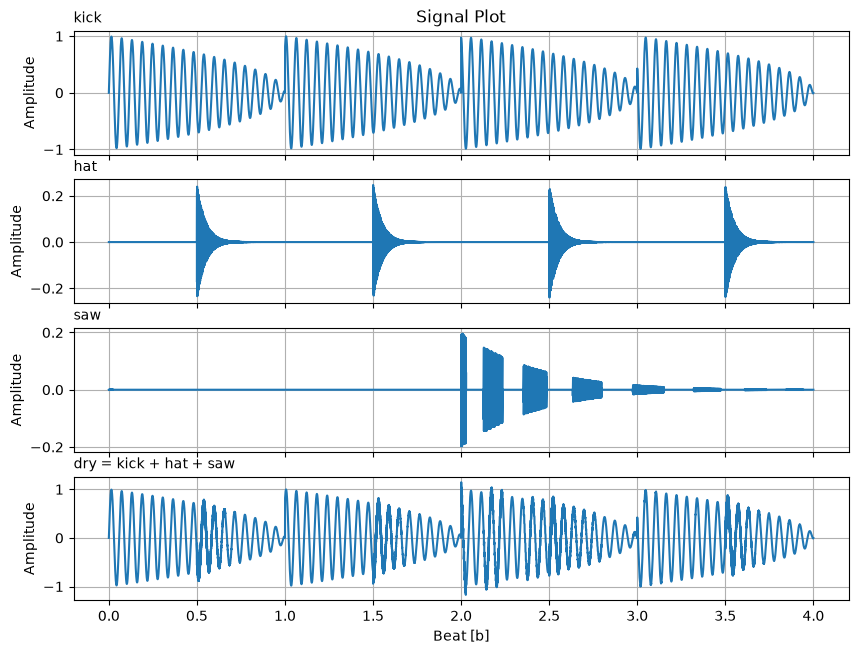
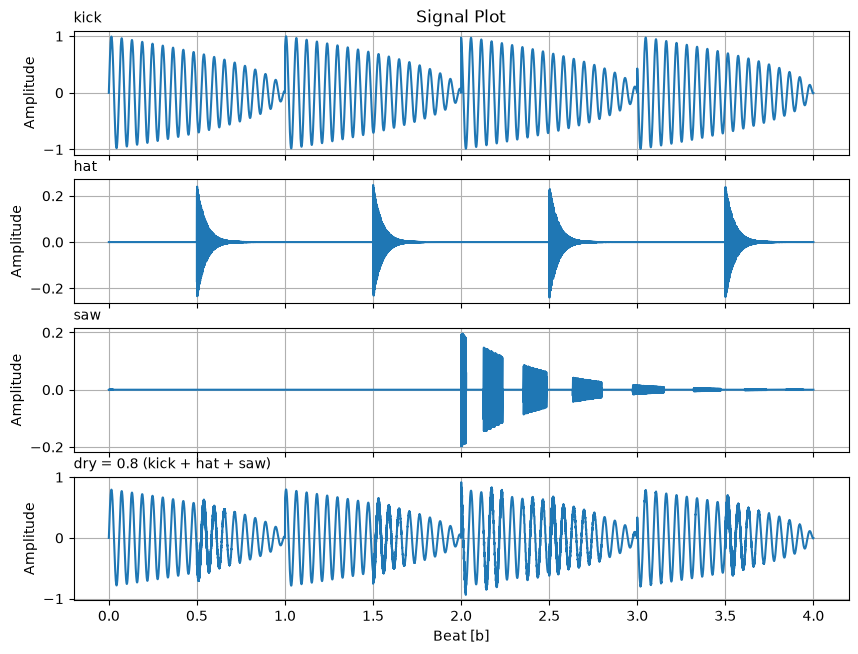
scaled the house mix by 0.8 so the examples no longer clip

Changed region(s): [[0.1212, 0.7034, 0.303, 0.7339], [0.0606, 0.8869, 0.0909, 0.9174], [0.0606, 0.7339, 0.0909, 0.7645]]

diff --git a/tests/test_examples.py b/tests/test_examples.py
@@ -46,6 +46,16 @@ def test_example_runs_without_error(name, fake_sounddevice, tmp_path, monkeypatc
     run_example(name, fake_sounddevice, tmp_path, monkeypatch)
 
 
+@pytest.mark.parametrize("name", ["house", "house_with_low_pass"])
+def test_house_does_not_clip(name, fake_sounddevice, tmp_path, monkeypatch):
+    run_example(name, fake_sounddevice, tmp_path, monkeypatch)
+    for data, _ in fake_sounddevice.plays:
+        # Samples beyond 1 are clipped on playback and in the WAV file
+        assert np.abs(data).max() <= 1.0
+        # ...and the 0.8 gain should not have turned it down needlessly
+        assert np.abs(data).max() > 0.9
+
+
 @pytest.mark.parametrize("name", [n for n in SCRIPTS if n != "classic_synths"])
 def test_example_plays_finite_audible_audio(
     name, fake_sounddevice, tmp_path, monkeypatch

diff --git a/examples/house_with_low_pass.py b/examples/house_with_low_pass.py
@@ -34,7 +34,11 @@ stutter = square(stutter_lfo) + 1.0
 
 saw = 0.1 * (saw_beat**saw_decay) * sawtooth(1000) * stutter
 
-dry = kick + hat + saw
+# The plain sum of the parts peaks at about 1.19 and would clip: scale the
+# mix by 0.8 so the peak stays just under 1
+master_gain = 0.8
+
+dry = master_gain * (kick + hat + saw)
 
 # The low-pass sweep lives in the middle third only. `sweep` rises smoothly
 # from 0 to 1 and back to 0 across it, and is 0 everywhere else. The cutoff

diff --git a/examples/house.py b/examples/house.py
@@ -31,7 +31,11 @@ stutter = square(stutter_lfo) + 1.0
 
 saw = 0.1 * (saw_beat**saw_decay) * sawtooth(1000) * stutter
 
-w = kick + hat + saw
+# Each part is at most 1, so the plain sum clips (it peaks at about 1.19).
+# Scaling the mix by 0.8 keeps the peak just under 1.
+master_gain = 0.8
+
+w = master_gain * (kick + hat + saw)
 
 # Only play when run as a script, so importing this file is silent
 if __name__ == "__main__":

diff --git a/guidelines.md b/guidelines.md
@@ -414,7 +414,6 @@ Each of these has a test. When you fix one, flip its test as described in
 | A filtered expression can only be evaluated over a uniform sample grid, not at a single time; the filter starts at rest at the first sample | `filters.py` | `TestValidation` |
 | `WHITE_NOISE` is one shared symbol, so every use in an expression sees the same samples | `waves/utils.py` | `test_white_noise_symbol_is_one_shared_signal` |
 | `sawtooth_v2` is scaled by pi/2 and overshoots about 18% (Gibbs), unlike `sawtooth` which is within +/-1 | `waves/basic.py` | `TestSawtoothV2` |
-| `examples/house.py` and `house_with_low_pass.py` peak at about 1.19, so it clips on playback and in saved files | `examples/house.py` | golden file (`test_example_sound_has_not_changed`) |
 | `adsr_envelope` uses one global `ACTIVE_DURATION` symbol, so each note needs its own `subs` | `envelope.py` | `TestReleaseFromAnyStage` |
 | Phase integration is symbolic (`sp.integrate`), so frequency expressions SymPy cannot integrate fail, and large ones are slow | `waves/basic.py` | `test_frequency_modulation_integrates_the_frequency` |
 | `adsr_envelope` raises a bare `Exception` for negative parameters | `envelope.py` | `TestValidation` |

diff --git a/docs/house-with-low-pass-walkthrough.md b/docs/house-with-low-pass-walkthrough.md
@@ -207,11 +207,14 @@ outline, which peaks at the middle of the bar (beat 2). The last is the result:
 the buzz, gated, inside that outline.
 
 ```python
-dry = kick + hat + saw
+master_gain = 0.8
+
+dry = master_gain * (kick + hat + saw)
 ```
 
 `dry` is the whole beat with no effects: the three drums added together
-("dry" is the audio term for unprocessed).
+("dry" is the audio term for unprocessed). Added up they would peak at about
+1.19 and clip, so the sum is scaled by 0.8 to keep the peak just under 1.
 
 All three together, in one bar:
 
@@ -228,7 +231,7 @@ plot(
     [ns["kick"], ns["hat"], ns["saw"], ns["dry"]],
     duration=4,
     bpm=ns["bpm"],
-    labels=["kick", "hat", "saw", "dry = kick + hat + saw"],
+    labels=["kick", "hat", "saw", "dry = 0.8 (kick + hat + saw)"],
     stacked=True,
     output_file="img/house-dry.png",
 )

diff --git a/README.md b/README.md
@@ -2,11 +2,11 @@
 
 $$
 \begin{aligned}
-d(t) ={}& \left(\left\lfloor \tfrac{7t}{3} + 1 \right\rfloor - \tfrac{7t}{3}\right)^{1/2} \sin(80\pi t) \\
+d(t) ={}& 0.8\Bigl( \left(\left\lfloor \tfrac{7t}{3} + 1 \right\rfloor - \tfrac{7t}{3}\right)^{1/2} \sin(80\pi t) \\
 &+ 0.25 \left(\left\lfloor \tfrac{7t}{3} + \tfrac{3}{2} \right\rfloor - \tfrac{7t}{3} - \tfrac{1}{2}\right)^{20} n(t) \\
 &+ 0.2 \left(\left\lfloor \tfrac{7t}{12} + \tfrac{3}{2} \right\rfloor - \tfrac{7t}{12} - \tfrac{1}{2}\right)^{9}
 \bigl(1000t - \lfloor 1000t + \tfrac{1}{2} \rfloor\bigr)
-\left(\mathrm{sgn}\sin\!\Bigl(2\pi\bigl(12.5\,t - \tfrac{36}{7\pi}\cos\tfrac{7\pi t}{6}\bigr)\Bigr) + 1\right)
+\left(\mathrm{sgn}\sin\!\Bigl(2\pi\bigl(12.5\,t - \tfrac{36}{7\pi}\cos\tfrac{7\pi t}{6}\bigr)\Bigr) + 1\right)\Bigr)
 \end{aligned}
 $$
 

diff --git a/docs/gotchas.md b/docs/gotchas.md
@@ -6,7 +6,8 @@ afternoon.
 ## Clipping
 
 Signals above 1 or below -1 are clipped when played or saved. Mixed signals add
-up: scale the mix. `examples/house.py` and `examples/house_with_low_pass.py` peak at about 1.19 and clip a little.
+up: scale the mix. The house examples sum three parts that would peak at about
+1.19, so they scale the mix by 0.8 to stay just under 1.
 
 ## Time shifting a plain oscillator does not silence the start
 
